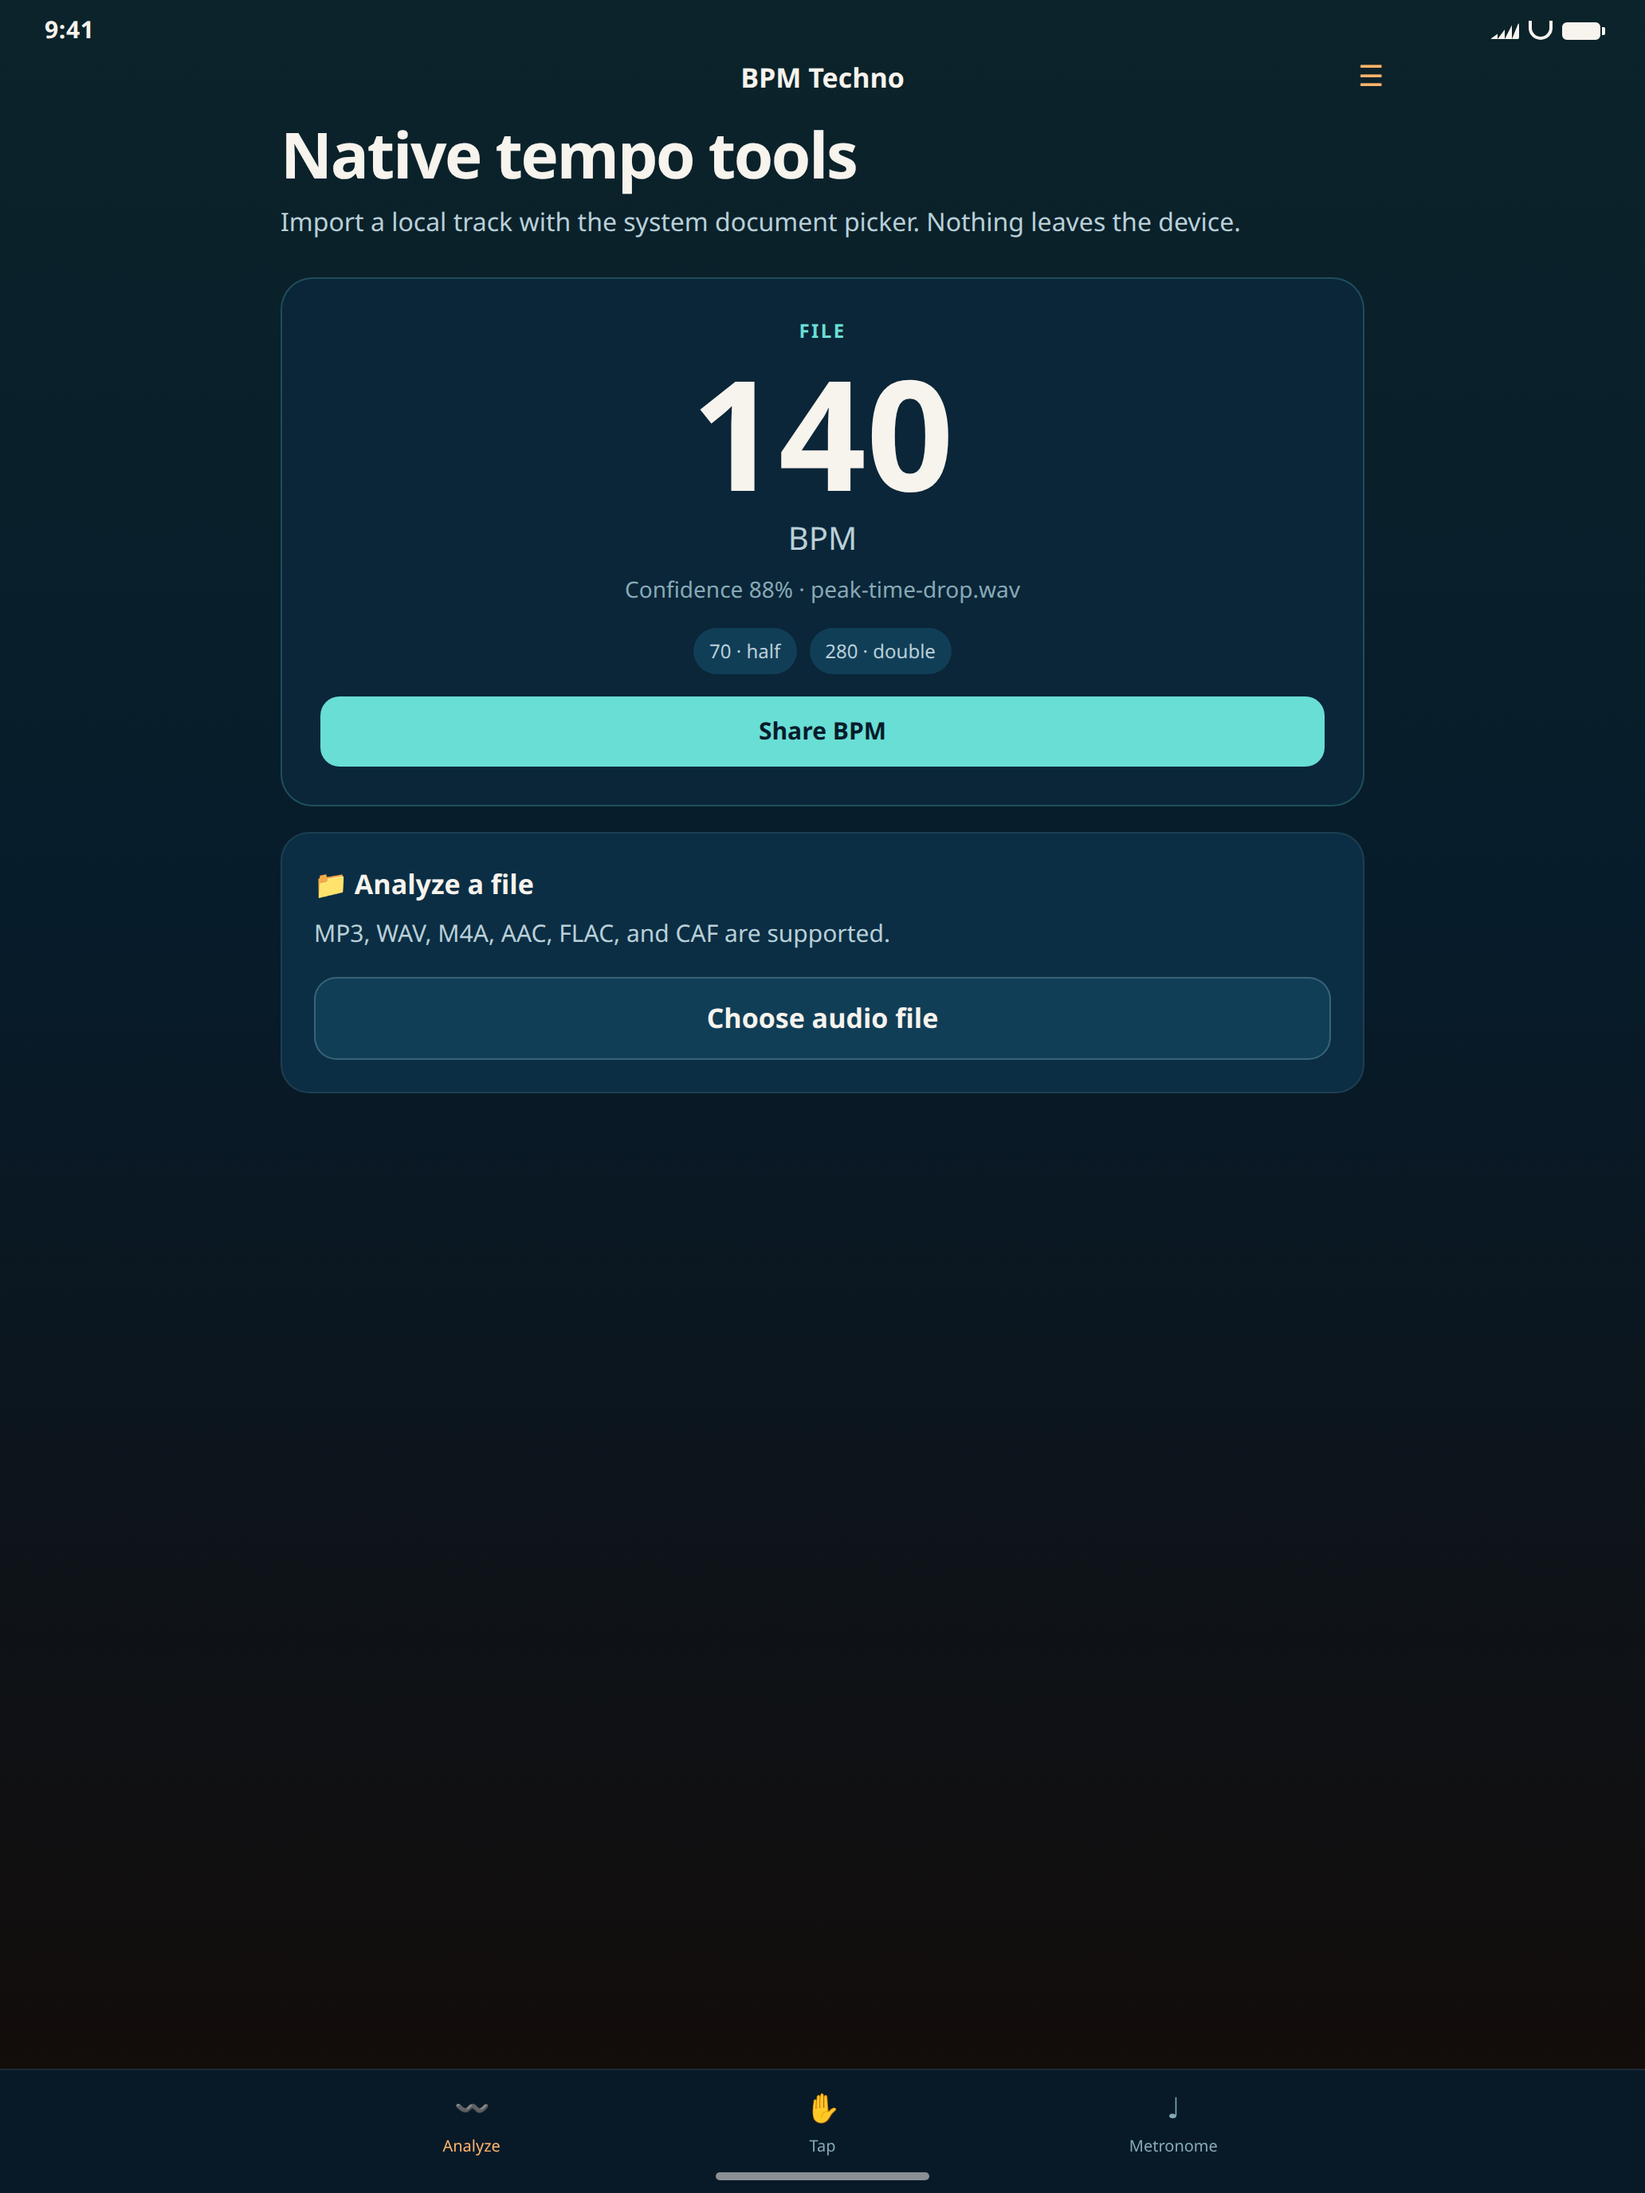
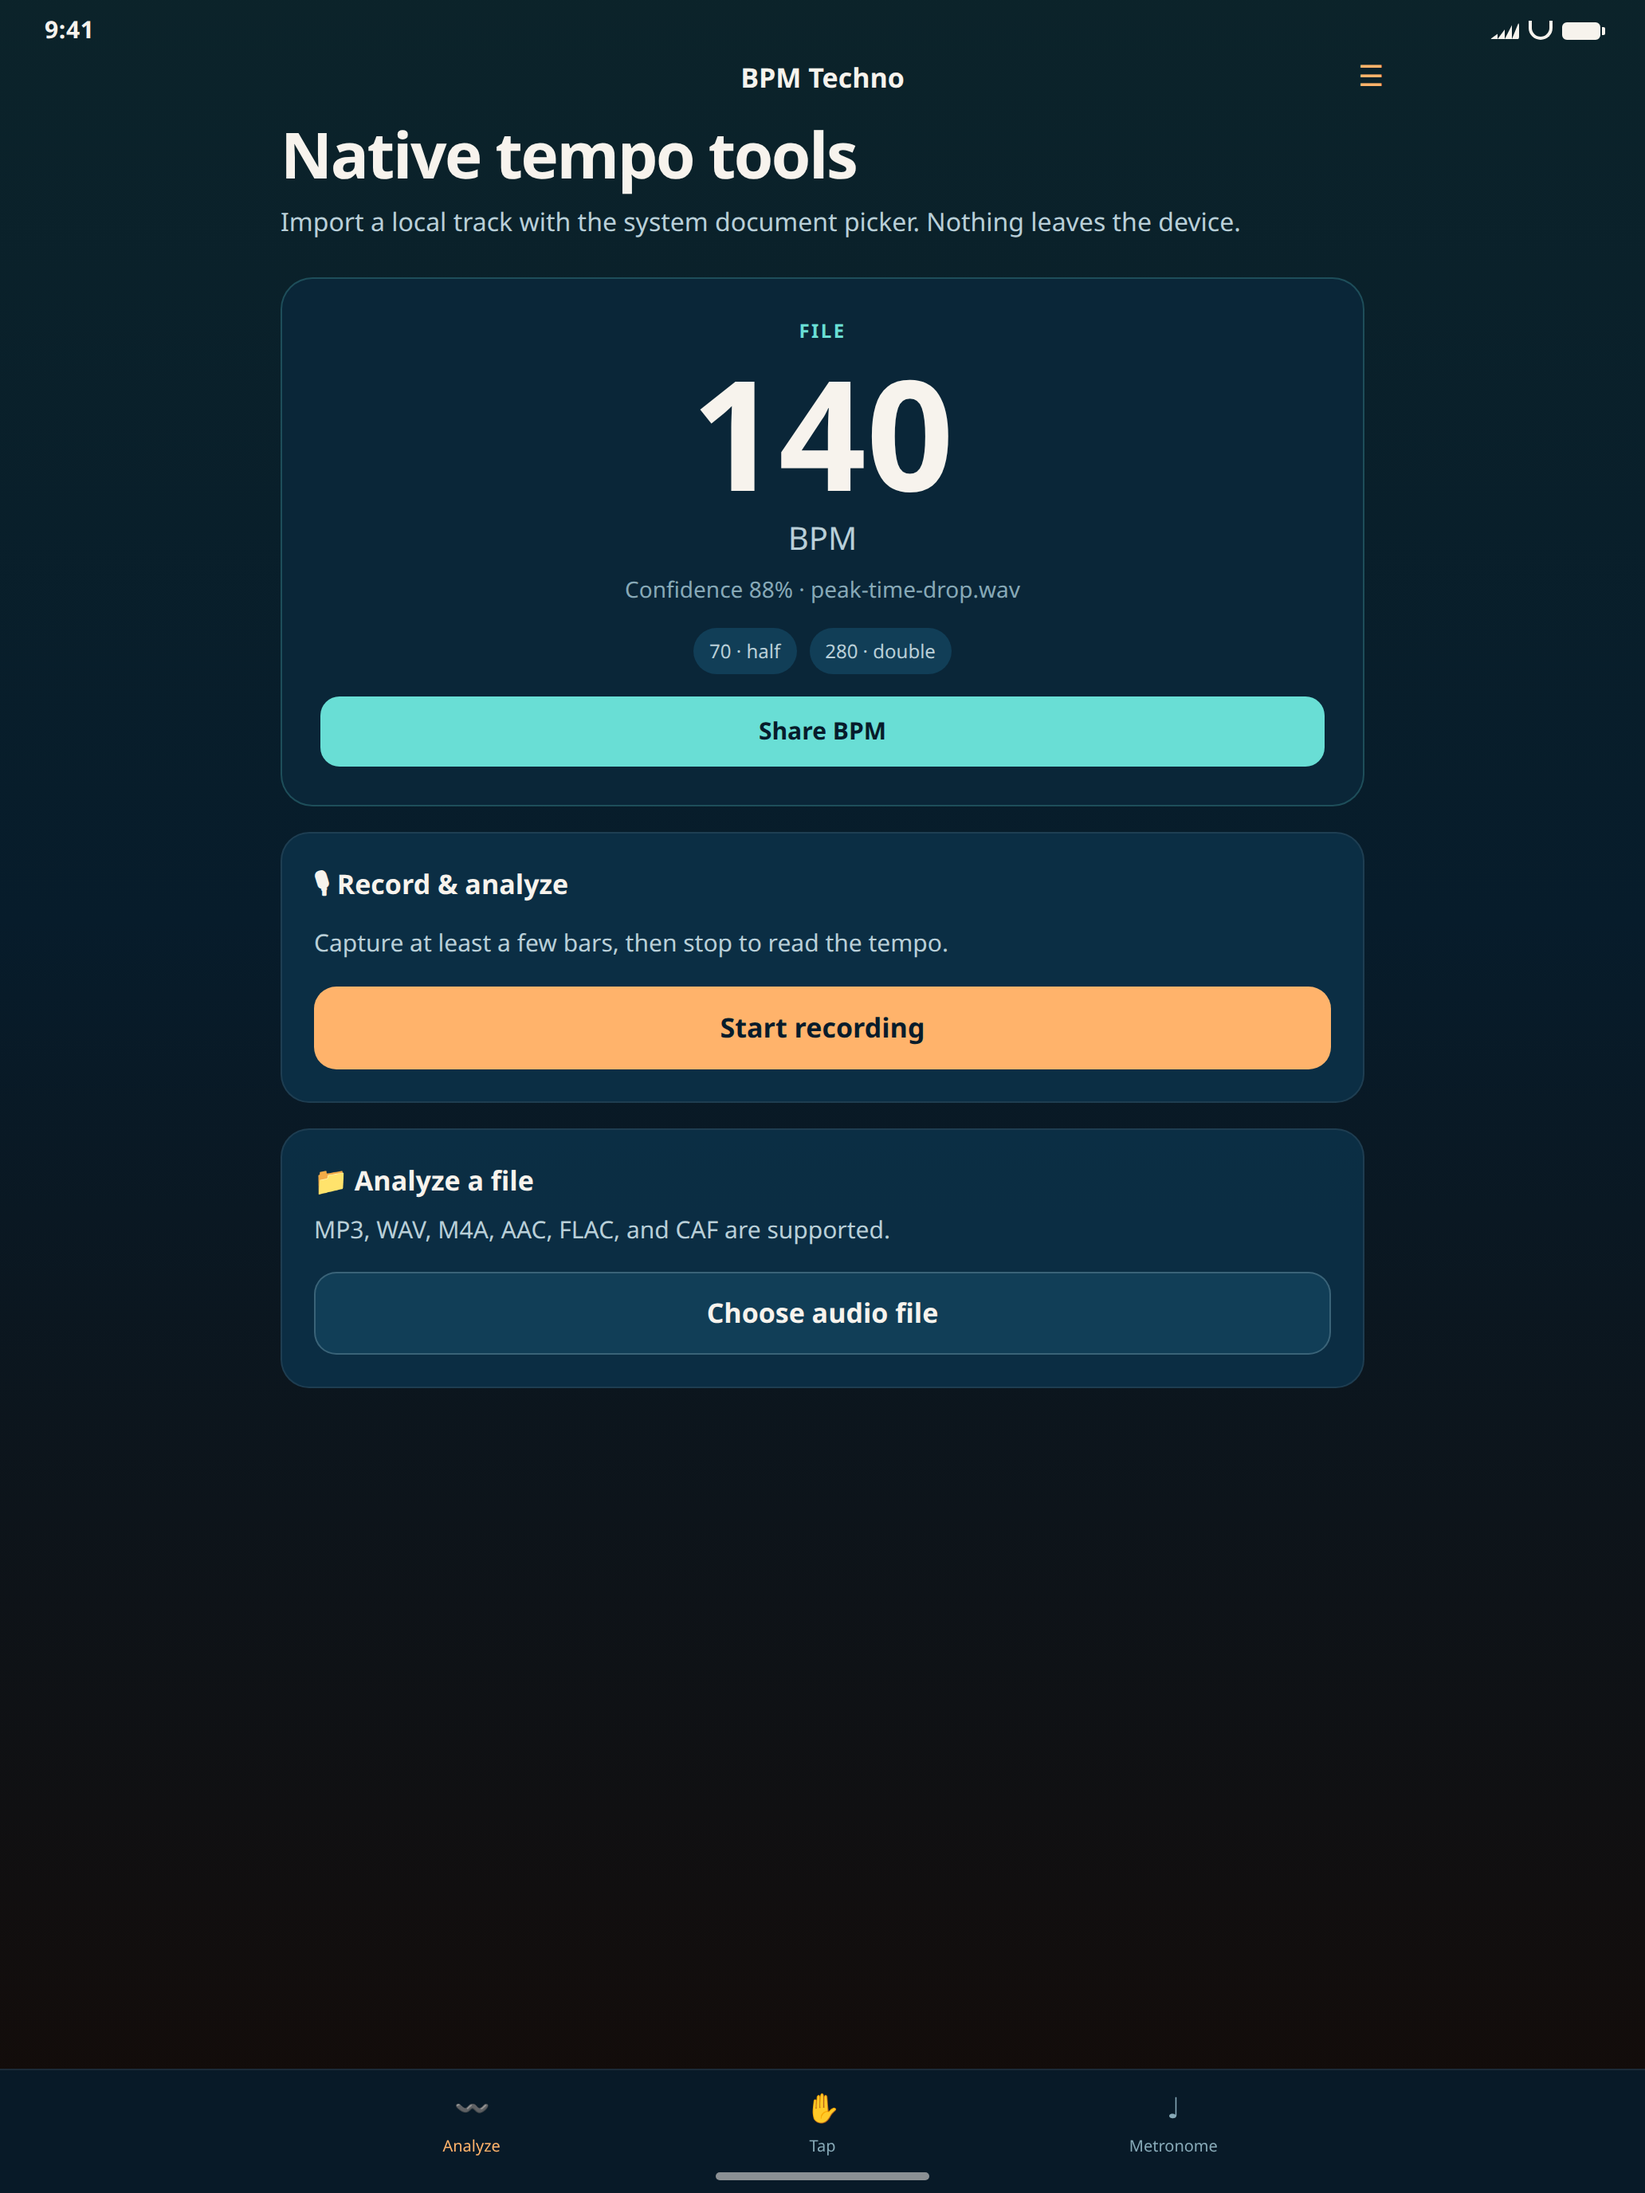
Address Copilot review findings for App Store launch
Use ios-v* release tags, validate PNG dimensions without sharp, align
screenshot comps with native Analyze/Metronome UI, and publish a
native-specific /privacy/ios policy for App Store Connect.

Changed region(s): [[0.155, 0.375, 0.8372, 0.6562]]

diff --git a/src/content/publishingPages.js b/src/content/publishingPages.js
@@ -625,9 +625,21 @@ export const publishingPages = Object.freeze([
       'How BPM Techno handles microphone audio, remote audio URLs, feedback, analytics, advertising, and affiliate links.',
     heading: 'Privacy policy',
     lede:
-      'This policy explains the data used by BPM Techno and the boundaries between browser-local audio processing, application telemetry, and third-party services.',
-    updatedDate,
+      'This policy explains the data used by BPM Techno and the boundaries between browser-local audio processing, application telemetry, and third-party services. The native iOS app has a separate, stricter policy.',
+    updatedDate: '2026-11-18',
     sections: [
+      {
+        heading: 'Native iOS app',
+        paragraphs: [
+          'The BPM Techno iOS app is covered by a dedicated native privacy policy. It analyzes audio on-device, does not upload microphone recordings or imported files, and does not use the web analytics or advertising SDKs described below.',
+        ],
+        links: [
+          {
+            label: 'BPM Techno iOS privacy policy',
+            href: '/privacy/ios',
+          },
+        ],
+      },
       {
         heading: 'Audio processing',
         paragraphs: [
@@ -681,7 +693,68 @@ export const publishingPages = Object.freeze([
         ],
       },
     ],
-    relatedPageIds: ['contact', 'terms', 'affiliate-disclosure'],
+    relatedPageIds: ['privacy-ios', 'contact', 'terms', 'affiliate-disclosure'],
+  },
+  {
+    id: 'privacy-ios',
+    path: '/privacy/ios',
+    category: 'legal',
+    structuredDataType: 'WebPage',
+    title: 'iOS Privacy Policy | BPM Techno',
+    description:
+      'How the native BPM Techno iOS app handles microphone recordings, local audio files, tap tempo, and the metronome without uploading audio or collecting analytics.',
+    heading: 'iOS privacy policy',
+    lede:
+      'This policy applies to the native BPM Techno iOS app. It is separate from the browser and website privacy policy at /privacy.',
+    updatedDate: '2026-11-18',
+    sections: [
+      {
+        heading: 'Scope',
+        paragraphs: [
+          'BPM Techno for iOS is a native SwiftUI application. Tempo detection uses Realtime BPM Analyzer for Swift on your device. The app does not require an account and does not include in-app purchases, subscriptions, advertising SDKs, or third-party analytics SDKs.',
+        ],
+      },
+      {
+        heading: 'Audio processing',
+        paragraphs: [
+          'Microphone access is used only to record a short clip for on-device rhythm analysis. The recording is analyzed locally and then deleted. Live microphone audio is not uploaded or stored on a server.',
+          'Local file analysis uses the system document picker. Supported formats include MP3, WAV, M4A, AAC, FLAC, and CAF. Imported audio is decoded and analyzed on the device and is not uploaded. Files longer than 10 minutes are rejected.',
+        ],
+      },
+      {
+        heading: 'Other features',
+        paragraphs: [
+          'Tap tempo uses on-device timing and optional haptic feedback. The metronome plays click audio on the device. You can share BPM results with the system Share Sheet; the destination of a share is under your control.',
+        ],
+      },
+      {
+        heading: 'Data not collected',
+        paragraphs: [
+          'The native app does not collect contact information, identifiers, usage analytics, diagnostics, location, browsing history, or other App Store privacy categories. Temporary recordings and analysis results stay on the device unless you explicitly share a BPM value.',
+        ],
+      },
+      {
+        heading: 'Website and browser tools',
+        paragraphs: [
+          'Opening bpmtech.no or using the browser tools is covered by the separate website privacy policy, which describes analytics and advertising that apply only to the web experience.',
+        ],
+        links: [
+          {
+            label: 'Website privacy policy',
+            href: '/privacy',
+          },
+        ],
+      },
+      {
+        heading: 'Your choices and contact',
+        bullets: [
+          'Deny or revoke microphone permission in iOS Settings.',
+          'Do not import files you do not want analyzed on the device.',
+          'Contact the maintainer on X with privacy questions, without including sensitive information in a public message.',
+        ],
+      },
+    ],
+    relatedPageIds: ['privacy', 'contact', 'terms'],
   },
   {
     id: 'terms',

diff --git a/store-assets/apple-app-store/source/native-screens.html b/store-assets/apple-app-store/source/native-screens.html
@@ -572,6 +572,11 @@
             <div class="share">Share BPM</div>
           </div>
           <div class="card">
+            <p class="card-title">🎙 Record &amp; analyze</p>
+            <p class="card-copy">Capture at least a few bars, then stop to read the tempo.</p>
+            <div class="btn btn-primary">Start recording</div>
+          </div>
+          <div class="card">
             <p class="card-title">📁 Analyze a file</p>
             <p class="card-copy">MP3, WAV, M4A, AAC, FLAC, and CAF are supported.</p>
             <div class="btn btn-secondary">Choose audio file</div>
@@ -605,10 +610,20 @@
             </div>
           </div>
           <div class="slider-track" aria-hidden="true"></div>
-          <div style="padding: 0 28px">
+          <div class="btn-row" style="padding: 0 28px; align-items: center">
+            <div
+              class="btn btn-secondary"
+              style="flex: 1; justify-content: flex-start; padding-left: 14px; background: #fff; color: #111"
+            >
+              120
+            </div>
+            <div class="btn btn-secondary" style="flex: 0 0 72px">Set</div>
+            <div class="btn btn-secondary" style="flex: 0 0 64px">4/4</div>
+          </div>
+          <div style="padding: 16px 28px 0">
             <div class="btn btn-primary">Stop</div>
             <p class="footnote" style="text-align: center; margin-top: 16px">
-              Native metronome with haptic accents. Recording pauses while the click is running.
+              Native click metronome. Starting it cancels an active recording so the click stays clear.
             </p>
           </div>
         </section>

diff --git a/src/adPlacement.test.js b/src/adPlacement.test.js
@@ -30,6 +30,7 @@ describe('ad placement rules', () => {
       '/no/verktoy',
       '/about',
       '/privacy',
+      '/privacy/ios',
       '/terms',
       '/contact',
       '/affiliate-disclosure',
@@ -41,7 +42,7 @@ describe('ad placement rules', () => {
   });
 
   it('keeps hubs and trust pages free of manual units', () => {
-    ['tools-hub', 'guides-hub', 'bpm-hub', 'tools-hub-nb', 'privacy', 'about', 'contact'].forEach((id) => {
+    ['tools-hub', 'guides-hub', 'bpm-hub', 'tools-hub-nb', 'privacy', 'privacy-ios', 'about', 'contact'].forEach((id) => {
       const page = getPublishingPage(id);
       expect(getInArticleSectionIndex(page, { hasInteractiveTool: true }), id).toBe(-1);
       expect(shouldShowMultiplex(page), id).toBe(false);

diff --git a/src/content/publishingPages.test.js b/src/content/publishingPages.test.js
@@ -97,6 +97,16 @@ describe('publishing page content', () => {
     expect(privacyText).toContain(
       'Google-certified consent management platform'
     );
+    expect(privacyText).toContain('Native iOS app');
+  });
+
+  it('publishes a native iOS privacy policy separate from the website policy', () => {
+    const iosPrivacy = publishingPages.find((page) => page.id === 'privacy-ios');
+    const iosText = getPageText(iosPrivacy);
+
+    expect(iosPrivacy.path).toBe('/privacy/ios');
+    expect(iosText).toContain('analyzed locally and then deleted');
+    expect(iosText).not.toMatch(/AdSense|Application Insights|Google Analytics/i);
   });
 
   it('keeps public trust pages focused on DJs rather than implementation details', () => {

diff --git a/src/App.jsx b/src/App.jsx
@@ -203,6 +203,10 @@ function App() {
                   element={<PublishingPage pageId="privacy" />}
                 />
                 <Route
+                  path="/privacy/ios"
+                  element={<PublishingPage pageId="privacy-ios" />}
+                />
+                <Route
                   path="/privacy.html"
                   element={<Navigate replace to="/privacy" />}
                 />

diff --git a/src/content/publicRoutes.js b/src/content/publicRoutes.js
@@ -21,6 +21,7 @@ export const STATIC_PUBLISHING_ROUTES = Object.freeze([
   '/guides/bpm-reference-table',
   '/guides',
   '/privacy',
+  '/privacy/ios',
   '/terms',
   '/contact',
   '/affiliate-disclosure',

diff --git a/APP_STORE_LAUNCH.md b/APP_STORE_LAUNCH.md
@@ -8,7 +8,7 @@ Goal: get **BPM Techno** (`no.bpmtech.app`) into TestFlight, then App Review, as
 | --- | --- |
 | Native SwiftUI app (iOS 17+) | Shipped on `main` |
 | `ios-ci.yml` simulator build | Present |
-| `ios-release.yml` signed IPA → TestFlight | Present (manual dispatch + `v*` tags) |
+| `ios-release.yml` signed IPA → TestFlight | Present (manual dispatch + `ios-v*` tags) |
 | App Store icon 1024×1024 | Present |
 | Native iPhone + iPad screenshots (5 each) | Regenerated from SwiftUI comps |
 | Listing / What’s New / review notes for 4.0 | Present under `store-assets/apple-app-store/` |
@@ -41,8 +41,9 @@ Team-wide certificate / API key reuse notes: [`APPLE_APP_STORE_REUSE.md`](APPLE_
 
 1. Create (or open) the iOS app with bundle ID `no.bpmtech.app`.
 2. Set primary category **Music**, secondary **Utilities**.
-3. Add Support / Marketing / Privacy URLs from
-   `store-assets/apple-app-store/app-store-connect-submission.txt`.
+3. Add Support / Marketing URLs from the submission handoff. Set the App Store
+   **Privacy Policy URL** to `https://bpmtech.no/privacy/ios` (native-specific;
+   do not use the website `/privacy` page for the iOS listing).
 4. Complete **App Privacy** as **Data Not Collected** for the native binary
    (see the same handoff file).
 5. Complete the age rating questionnaire.
@@ -73,7 +74,8 @@ Signing material creation on Windows: see [`IOS_RELEASE.md`](IOS_RELEASE.md).
 2. Actions → **iOS TestFlight Release** → Run workflow:
    - `version`: `4.0.0`
    - `upload_to_testflight`: `true`
-3. Or push a tag: `git tag v4.0.0 && git push origin v4.0.0`
+3. Or push an iOS release tag: `git tag ios-v4.0.0 && git push origin ios-v4.0.0`
+   (do not use bare `v*` tags — those belong to package releases)
 4. Download the IPA artifact if you need a manual upload fallback.
 5. In App Store Connect → TestFlight, wait for processing, then add internal
    and/or external testers.
@@ -92,8 +94,9 @@ Upload from the repo (or ASC UI):
   `listing-en-US.txt`, `metadata/description-en-US.txt`,
   `metadata/whats-new-en-US.txt`
 
-Optional polish: replace the marketing comps with screenshots from the
-TestFlight build on a real device before pressing Submit.
+Required before final submit: screenshots must match the shipped native UI.
+Regenerate after UI changes with `npm run store-assets:app-store`, then prefer
+replacing comps with TestFlight / device captures when chrome must be exact.
 
 ### 6. Submit for App Review
 

diff --git a/IOS_RELEASE.md b/IOS_RELEASE.md
@@ -70,11 +70,12 @@ unsigned simulator `xcodebuild` on `macos-15` for pull requests, pushes to
 `main`, and manual **workflow_dispatch** runs.
 
 `.github/workflows/ios-release.yml` runs on manual **workflow_dispatch** and on
-`v*` tags. It first validates App Store assets on Ubuntu, then imports signing
-material into a temporary keychain on macOS, archives and exports a signed IPA,
-stores the IPA as a GitHub artifact, and optionally uploads it to TestFlight.
-Tag pushes always upload to TestFlight; the marketing version is taken from the
-tag (for example `v4.0.0` → `4.0.0`).
+`ios-v*` tags. It first validates App Store assets on Ubuntu, then imports
+signing material into a temporary keychain on macOS, archives and exports a
+signed IPA, stores the IPA as a GitHub artifact, and optionally uploads it to
+TestFlight. Tag pushes always upload to TestFlight; the marketing version is
+taken from the tag (for example `ios-v4.0.0` → `4.0.0`). Package release tags
+(`v*`, used by `squad-release.yml`) do not trigger this workflow.
 
 Configure these GitHub Actions secrets:
 
